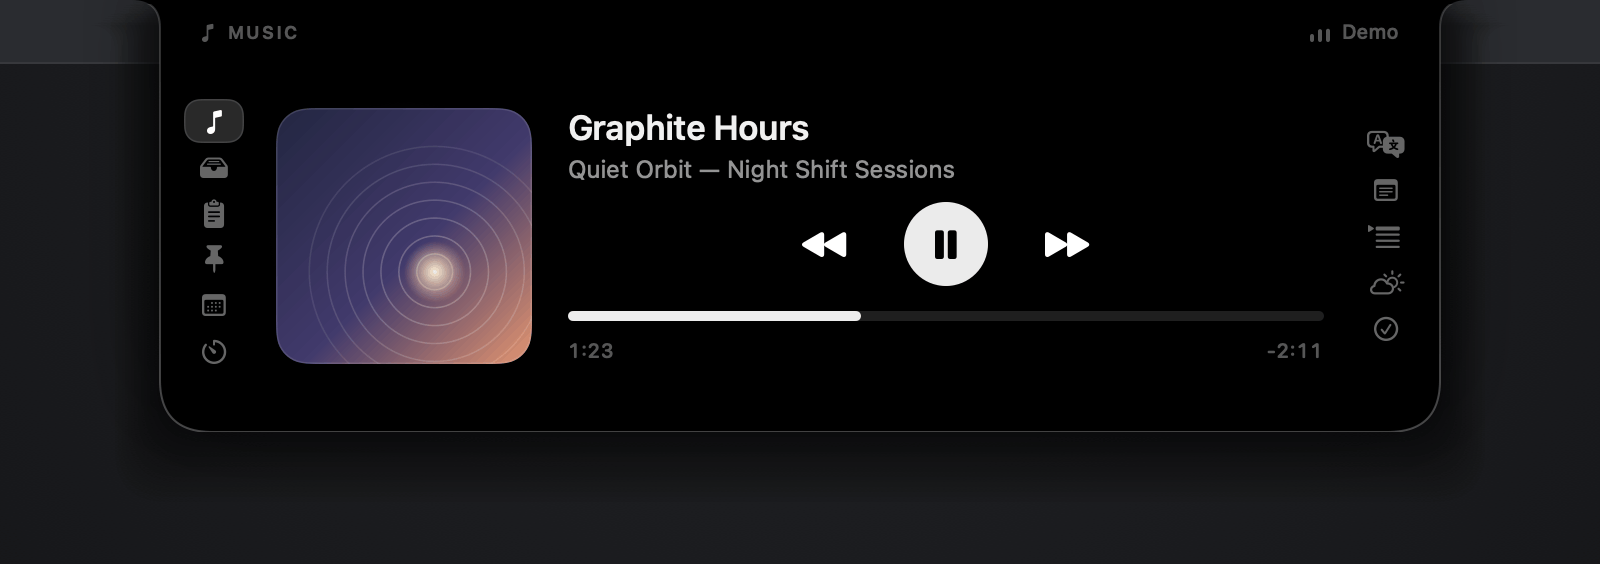
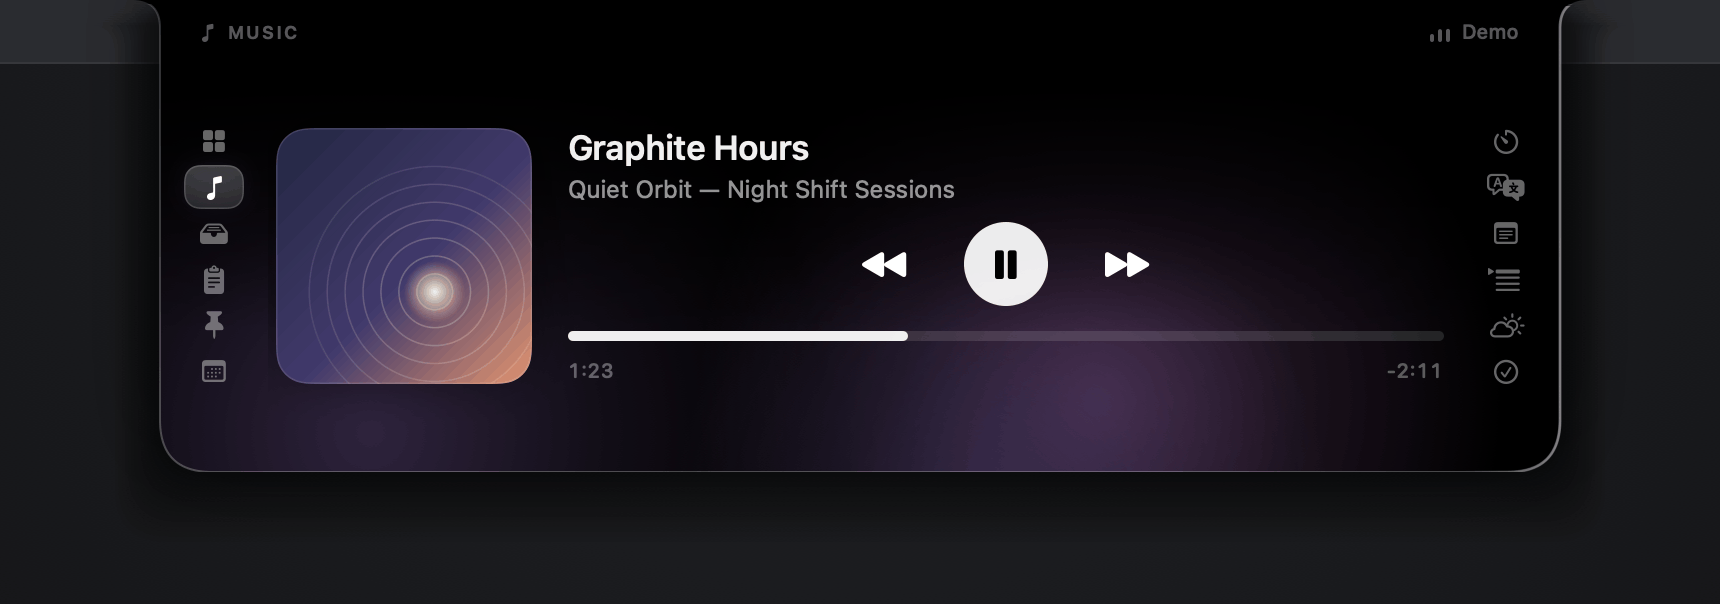
docs: show the Overview, island, and live panel
READMEs describe the Overview and the island, and the media is re-recorded.
GIFs are now encoded from the MP4, whose smoothing of the aurora keeps the
walkthrough near 1.7 MB instead of 2.3 MB.

diff --git a/README.uk.md b/README.uk.md
@@ -26,7 +26,7 @@
   <a href="README.md">English</a>
 </p>
 
-![Огляд VoidBar: музика, фокус-таймер, переклад з англійської українською та історія буфера обміну](docs/assets/walkthrough.uk.gif)
+![Огляд VoidBar: виріз перетворюється на живий острів, панель відкривається на «Огляді», далі фокус-таймер, переклад з англійської українською та історія буфера обміну](docs/assets/walkthrough.uk.gif)
 
 VoidBar перетворює порожній простір навколо нотча MacBook на зібраний набір щоденних інструментів: медіаконтролер, тимчасову полицю файлів, історію буфера, нотатки, переклад, зустрічі, Pomodoro, погоду та інше. Панель відкривається наведенням, закривається сама й не змушує вас упорядковувати ще одне вікно.
 
@@ -59,6 +59,11 @@ shasum -a 256 -c VoidBar-<версія>-arm64.dmg.sha256
 Образи релізів збирає з тегованого коду [GitHub Actions](.github/workflows/release.yml), який також публікує атестацію походження збірки.
 
 ## Що всередині
+
+### Бачити все одразу
+
+- **Огляд** — перше, що показує панель: що грає, наступна зустріч, фокус-таймер, погода й ліміти агентів для коду або останнє скопійоване. Кожен віджет відкриває свою вкладку.
+- **Живий острів** — поки грає музика чи йде таймер, виріз виростає крилами з обох боків, як Dynamic Island: ліворуч обкладинка або кільце таймера, праворуч живий еквалайзер чи відлік.
 
 ### Перенести
 
@@ -99,6 +104,7 @@ shasum -a 256 -c VoidBar-<версія>-arm64.dmg.sha256
 
 - Нативний SwiftUI та AppKit без сторонніх runtime-залежностей.
 - Керування наведенням; клавіатурний фокус береться лише там, де потрібен текст.
+- Панель, що відчувається живою: виливається з вирізу, по краю пробігає світло, віджети з'являються каскадом, а м'яка аврора підхоплює кольори того, що на екрані.
 - Українська та англійська локалізації.
 - Необов'язковий запуск разом із системою та керування через меню-бар.
 - Власний порядок і видимість вкладок.

diff --git a/README.md b/README.md
@@ -26,7 +26,7 @@
   <a href="README.uk.md">Українська</a>
 </p>
 
-![VoidBar walkthrough: music controls, a focus timer, English-to-Ukrainian translation, and clipboard history](docs/assets/walkthrough.gif)
+![VoidBar walkthrough: the notch grows into a live island, opens onto the Overview, then a focus timer, English-to-Ukrainian translation, and clipboard history](docs/assets/walkthrough.gif)
 
 VoidBar turns the unused space around the MacBook notch into a focused set of everyday tools: media controls, a temporary file shelf, clipboard history, notes, translation, meetings, Pomodoro, weather, and more. It opens on hover, closes when you leave, and never asks you to organize another window.
 
@@ -59,6 +59,11 @@ shasum -a 256 -c VoidBar-<version>-arm64.dmg.sha256
 Release images are built from the tagged source by [GitHub Actions](.github/workflows/release.yml), which also publishes a build provenance attestation.
 
 ## What lives inside
+
+### See everything at once
+
+- **Overview** — the first thing the panel shows: what is playing, the next meeting, the focus timer, the weather, and your coding agents' limits or the last thing you copied. Every widget opens its full tab.
+- **Live island** — while music plays or a timer runs, the notch grows a wing on each side, like a Dynamic Island: the cover or a timer ring on the left, a live equalizer or countdown on the right.
 
 ### Move things
 
@@ -99,6 +104,7 @@ Numbers update when either tool gets a response. A window whose reset time has p
 
 - Native SwiftUI and AppKit UI with no third-party runtime dependencies.
 - Hover-first interaction with keyboard focus only when a text tool needs it.
+- A panel that feels alive: it pours out of the notch, light runs along its edge, widgets cascade in, and a soft aurora picks up the colours of what is on screen.
 - English and Ukrainian localization.
 - Optional launch at login and a menu bar control.
 - Customizable tab order and visibility.
